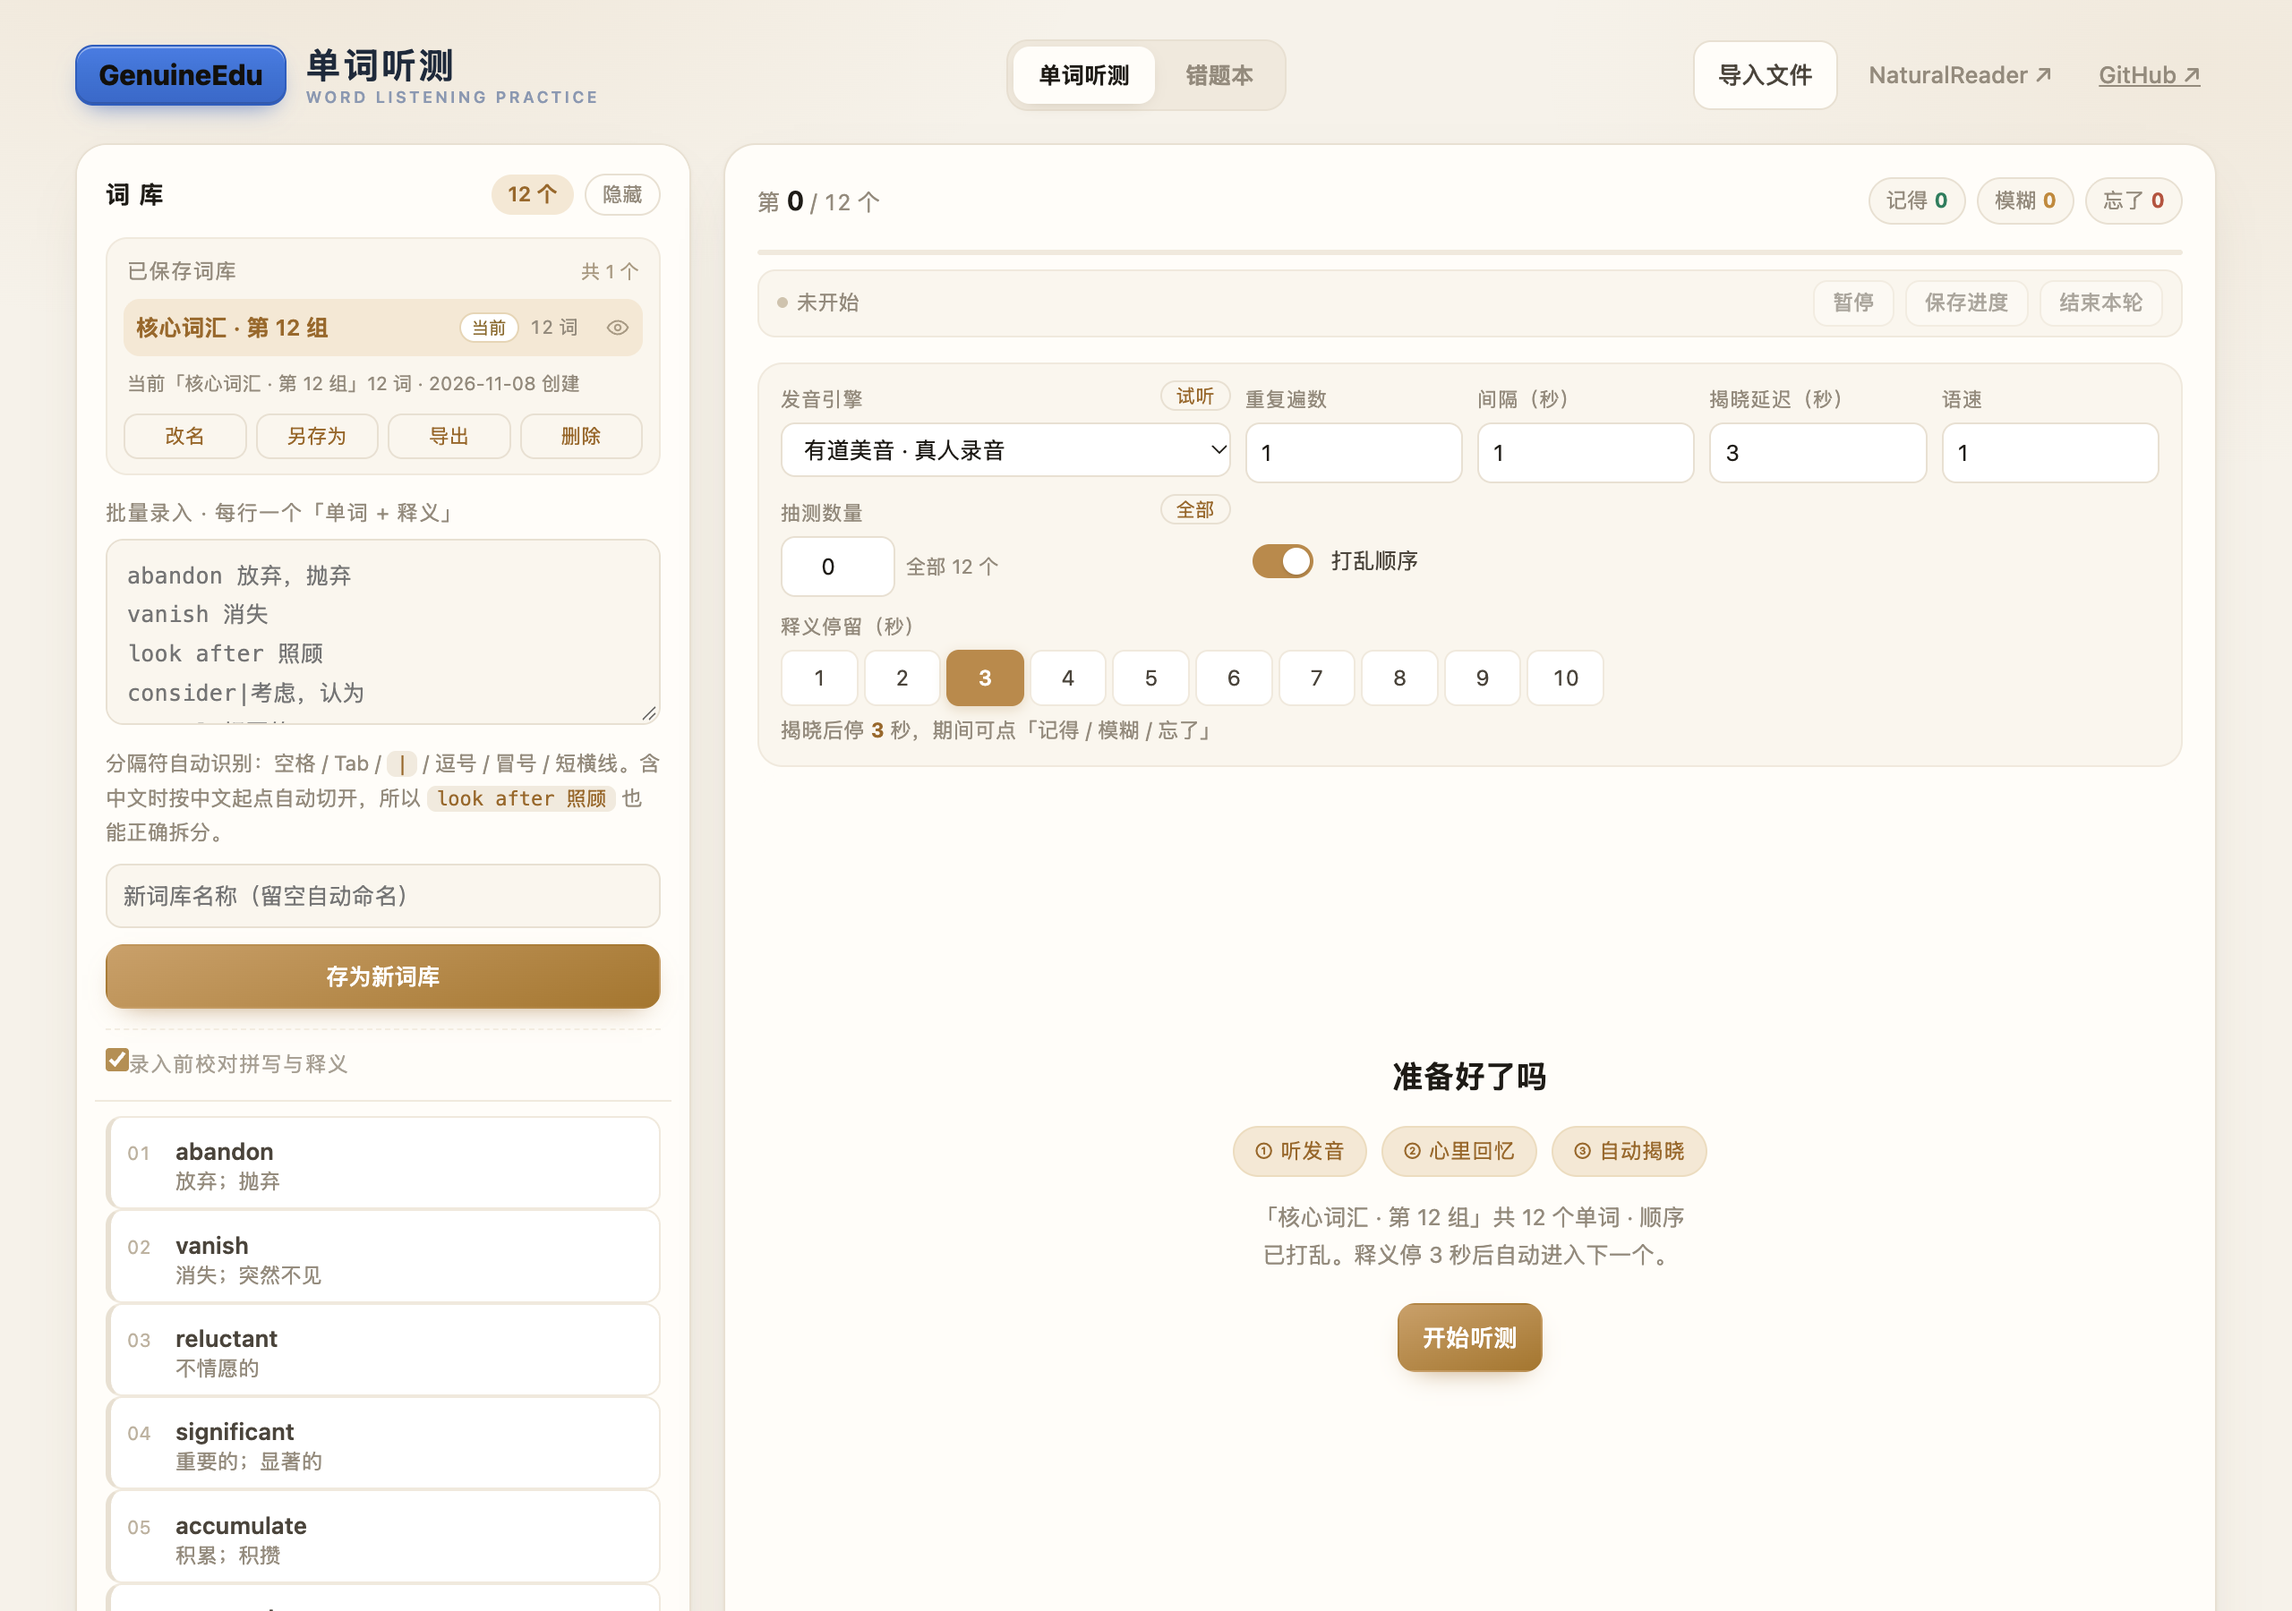
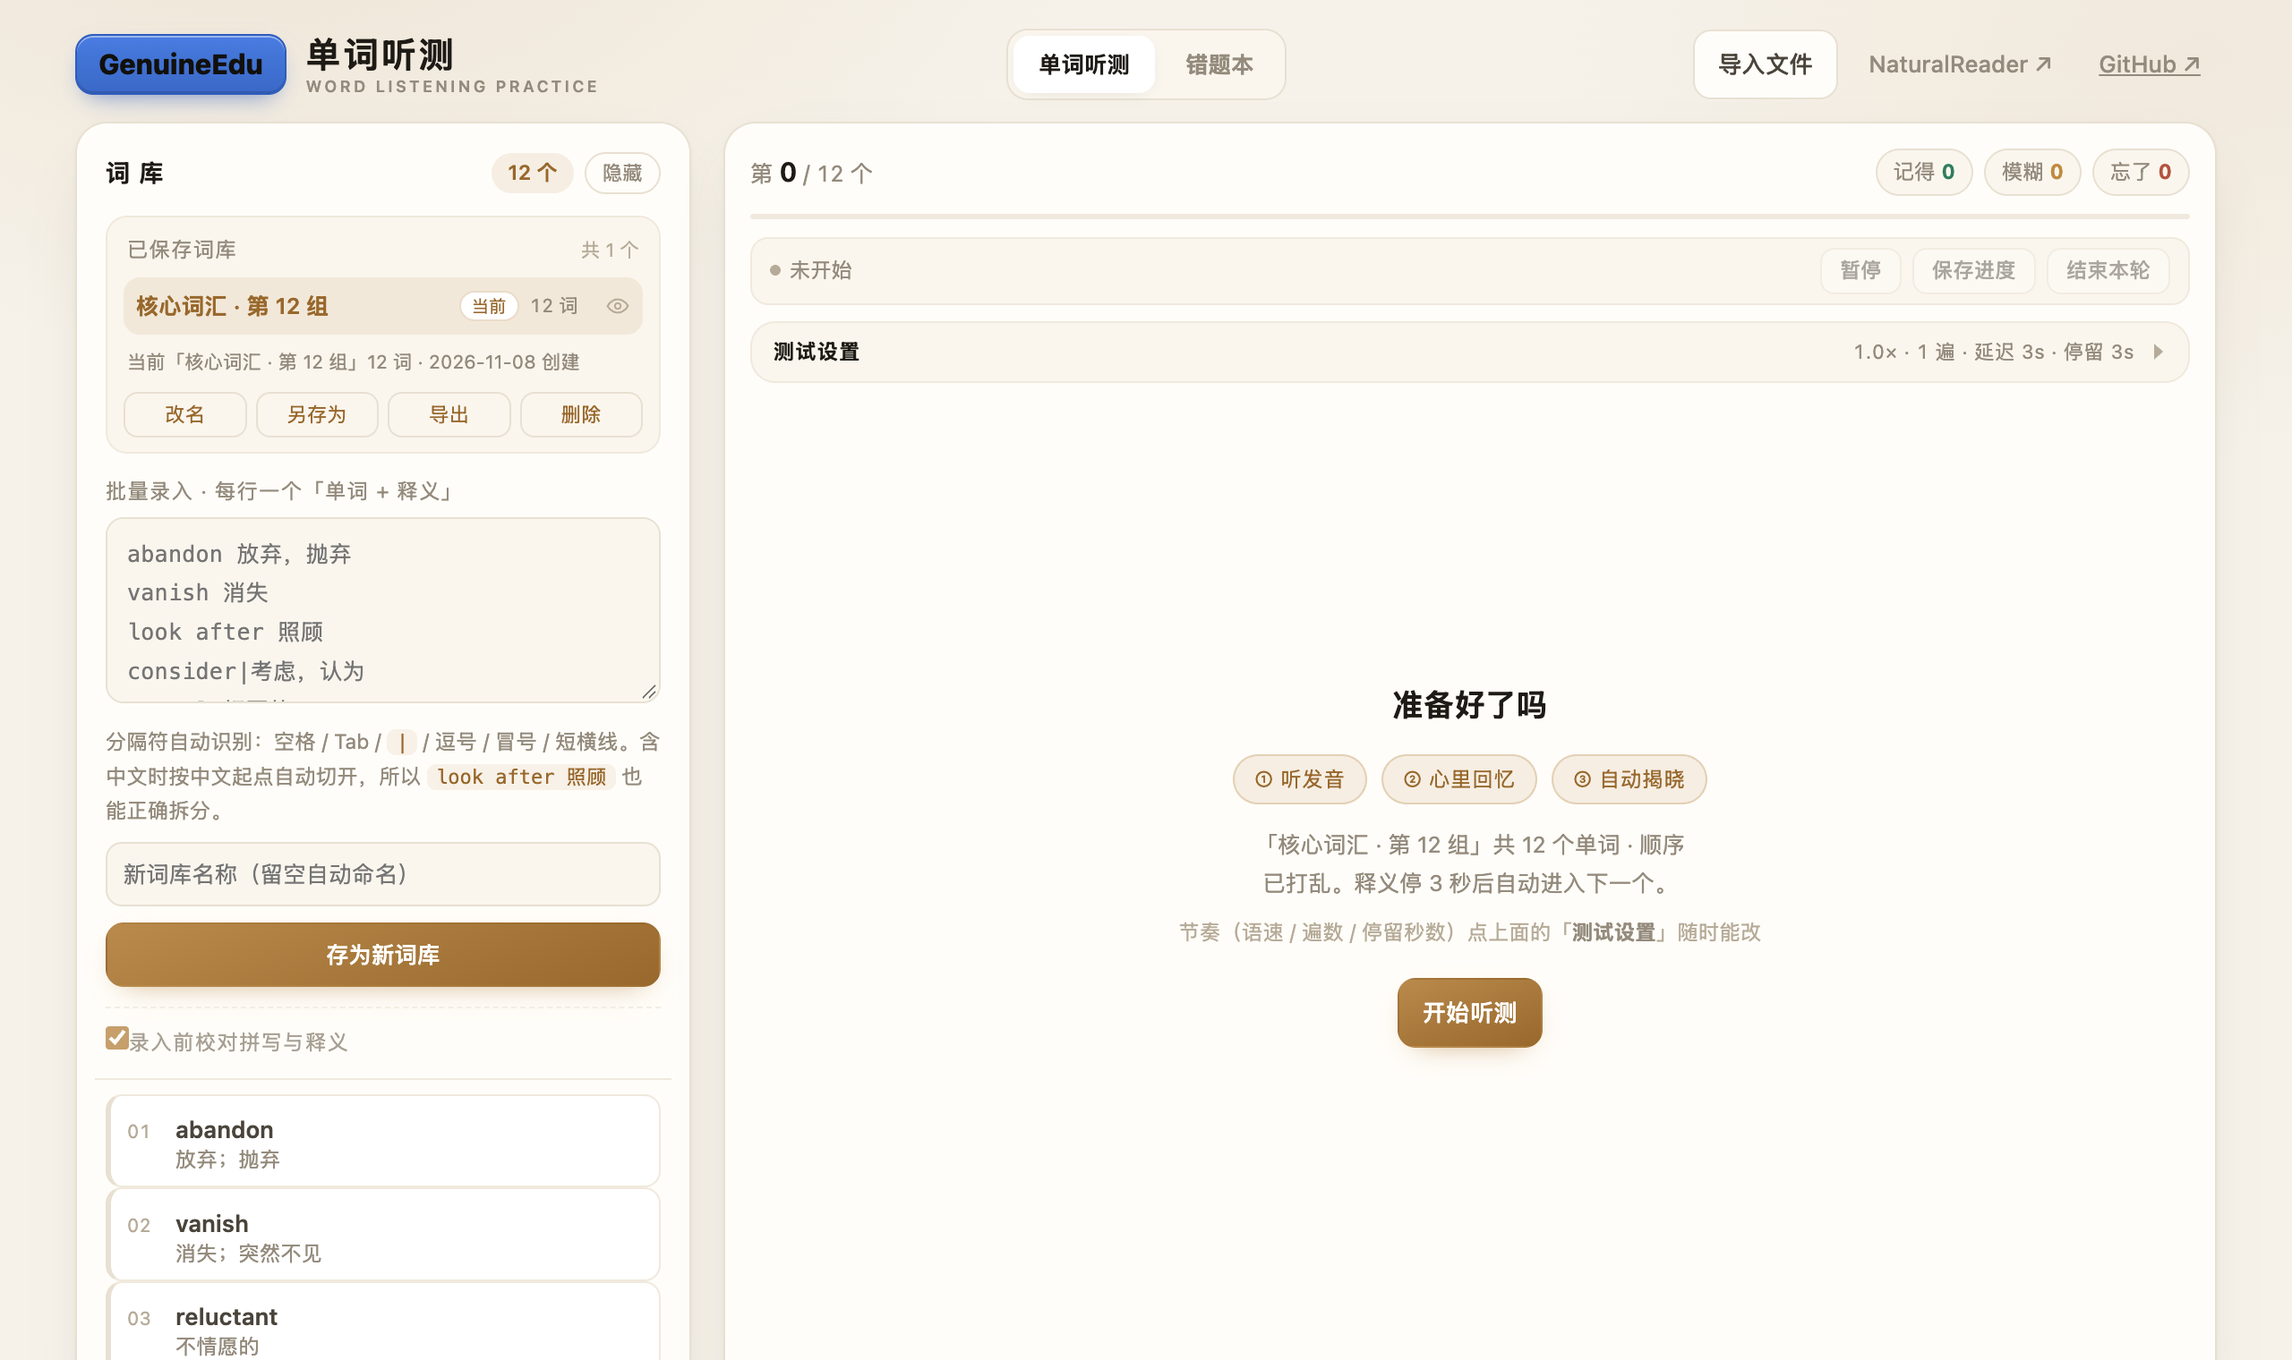
feat(layout): 测试页一屏到底——设置区改为可折叠（开测自动收起、显示当前节奏摘要），播放区按屏高压缩、高屏撑满并垂直居中；长释义改 grid 同格叠放不再压住自评按钮

diff --git a/index.html b/index.html
@@ -463,11 +463,30 @@ textarea:focus,input:focus,select:focus{border-color:var(--gold);background:var(
   color:var(--gold-d);font-weight:650}
 .btn.sv.end:not(:disabled):hover{border-color:var(--bad-bd);background:var(--bad-bg);color:var(--bad)}
 
-/* 设置条 */
+/* 设置条：外层一张可折叠的卡。开始听测后自动收起，只留一行摘要，一个测试页才装得进一屏 */
+.setwrap{margin:12px 0 4px;background:var(--panel-2);border:1px solid var(--line-2);border-radius:14px;overflow:hidden}
+.set-hd{
+  display:flex;align-items:center;gap:9px;width:100%;padding:7px 12px;
+  text-align:left;transition:background .15s;
+}
+.set-hd:hover{background:rgba(var(--acc-rgb),.05)}
+.set-hd:focus-visible{outline:2px solid var(--ring);outline-offset:-2px}
+.set-ttl{flex:none;font-size:11.5px;font-weight:650;letter-spacing:.04em;color:var(--ink)}
+.set-sum{
+  flex:1 1 auto;min-width:0;font-size:11px;color:var(--muted);letter-spacing:.02em;
+  font-variant-numeric:tabular-nums;white-space:nowrap;overflow:hidden;text-overflow:ellipsis;text-align:right;
+}
+/* 折叠箭头：纯 CSS 三角（字符 ▾ 在 10px 下糊成一团），收起时转 90° */
+.set-hd .car{
+  flex:none;width:0;height:0;border-left:4.5px solid transparent;border-right:4.5px solid transparent;
+  border-top:5px solid var(--faint);transition:transform .18s;
+}
+.setwrap.folded .set-hd .car{transform:rotate(-90deg)}
 .settings{
   display:grid;grid-template-columns:repeat(6,minmax(0,1fr));gap:8px;
-  margin:14px 0 4px;padding:11px 12px;background:var(--panel-2);border:1px solid var(--line-2);border-radius:14px;
+  padding:2px 12px 11px;
 }
+.setwrap.folded .settings{display:none}
 .set{min-width:0}
 .set label{display:block;font-size:11px;color:var(--muted);letter-spacing:.03em;margin-bottom:4px;white-space:nowrap}
 .set select,.set input{padding:6px 8px;font-size:12.5px;border-radius:8px;background:var(--panel-3)}
@@ -556,8 +575,9 @@ textarea:focus,input:focus,select:focus{border-color:var(--gold);background:var(
 .dots i.done{background:rgba(var(--acc-rgb),.42)}
 
 /* 释义区 */
-.reveal{position:relative;min-height:118px;width:100%;max-width:560px;margin-top:10px}
-.veil,.answer{position:absolute;inset:0;display:flex;flex-direction:column;align-items:center;justify-content:center;text-align:center;transition:opacity .4s ease,transform .4s cubic-bezier(.2,.75,.3,1)}
+/* 释义区：两态叠在同一格里（grid 同格叠放），长释义可以把这块撑高，不会压到下面的自评按钮 */
+.reveal{position:relative;display:grid;align-items:center;min-height:118px;width:100%;max-width:560px;margin-top:10px}
+.veil,.answer{grid-area:1 / 1;display:flex;flex-direction:column;align-items:center;justify-content:center;text-align:center;transition:opacity .4s ease,transform .4s cubic-bezier(.2,.75,.3,1)}
 .veil{gap:8px;color:var(--muted)}
 .veil .eye{font-size:20px;opacity:.5}
 .veil p{margin:0;font-size:12.5px;letter-spacing:.04em}
@@ -612,6 +632,8 @@ textarea:focus,input:focus,select:focus{border-color:var(--gold);background:var(
 .gate h3{margin:0;font-size:17px;font-weight:650}
 .gate p{margin:0;font-size:12.5px;color:var(--muted);max-width:380px;line-height:1.7;text-wrap:balance}
 .gate .btn{margin-top:6px}
+.gate .gate-pace{margin-top:-2px;font-size:11.5px;color:var(--faint);line-height:1.6}
+.gate .gate-pace b{color:var(--muted);font-weight:600}
 .steps{display:flex;gap:8px;margin:4px 0 2px;flex-wrap:wrap;justify-content:center}
 .steps span{
   font-size:11.5px;color:var(--gold-d);background:var(--gold-l);border:1px solid rgba(var(--acc-rgb),.3);
@@ -817,6 +839,90 @@ body.adj-open #toast{bottom:250px}
   .sp-side{position:static;order:2}
   .sp-main{order:1}
 }
+
+/* ============ 矮屏：垂直方向收紧 ============
+   目标：不滚动就能同时看到「进度条」和下面的「记得 / 模糊 / 忘了」。
+   只压缩留白和播放钮，字号基本不动，避免把测试页做小。 */
+@media (max-height:900px){
+  .app{padding-top:16px;padding-bottom:26px}
+  .topbar{margin-bottom:12px}
+  .playarea{padding-top:18px;padding-bottom:14px}
+}
+/* 宽屏让测试台撑满一屏：内容少了也不会把面板缩成一小块，播放区反而能垂直居中。
+   用 flex 把「整页高度」交给布局，比写死 calc(100vh - Npx) 稳，换屏不会多出几像素滚动条 */
+@media (min-width:901px){
+  .app{display:flex;flex-direction:column;min-height:100vh;min-height:100dvh}
+  #viewListen{display:flex;flex-direction:column;flex:1 1 auto;min-height:0}
+  #viewListen .layout{flex:1 1 auto;align-items:stretch}
+  #stage{display:flex;flex-direction:column;min-height:0}
+  .playarea{flex:1 1 auto}
+}
+@media (min-width:901px) and (max-height:820px){
+  .stage{padding:14px}
+  .stage-top{margin-bottom:10px}
+  .setwrap{margin:9px 0 2px}
+  .playarea{padding:14px 16px 10px}
+  .dial{width:92px;height:92px;margin-bottom:10px}
+  .playbtn{width:80px;height:80px}
+  .playbtn svg{width:28px;height:28px}
+  .reveal{min-height:104px;margin-top:8px}
+  .answer .word{font-size:clamp(28px,3.5vw,40px)}
+  .mark{margin-top:9px}
+  .actions{margin-top:12px}
+  .keyhint{margin-top:10px}
+  .note{margin-top:9px}
+}
+@media (min-width:901px) and (max-height:720px){
+  .app{padding-top:11px;padding-bottom:14px}
+  .topbar{margin-bottom:9px}
+  .playarea{padding:9px 16px 7px}
+  .dial{width:74px;height:74px;margin-bottom:7px}
+  .playbtn{width:64px;height:64px}
+  .playbtn svg{width:23px;height:23px}
+  #dots{margin-top:7px}
+  .reveal{min-height:90px;margin-top:5px}
+  .answer .def{margin-top:6px;font-size:14.5px}
+  .mark{margin-top:7px}
+  .mark button{padding:6px 14px}
+  .actions{margin-top:9px}
+  .keyhint{display:none}       /* 矮屏先保证测试区完整，键位提示可以让位 */
+}
+/* 手机 / 平板：本来就纵向排列，再把播放区压一档 */
+@media (max-width:900px) and (max-height:840px){
+  .playarea{min-height:0;padding:14px 8px 10px}
+  .dial{width:92px;height:92px;margin-bottom:10px}
+  .playbtn{width:80px;height:80px}
+  .playbtn svg{width:28px;height:28px}
+  .reveal{min-height:104px;margin-top:8px}
+  .mark{margin-top:9px}
+  .actions{margin-top:11px}
+  .keyhint{margin-top:9px}
+}
+/* 手机上没有物理键盘，键位提示纯占地方 */
+@media (max-width:640px){
+  .keyhint{display:none}
+}
+/* 小屏手机（高度 ≤760，如 iPhone SE / 小尺寸安卓）：顶栏和播放区各再压一档，保证自评和翻页按钮还在一屏里 */
+@media (max-width:900px) and (max-height:760px){
+  .app{padding-top:10px;padding-bottom:14px}
+  .topbar{margin-bottom:10px;gap:10px}
+  .top-actions .btn{padding:6px 10px;font-size:12px}
+  .stage{padding:12px}
+  .stage-top{margin-bottom:8px}
+  .setwrap{margin:8px 0 2px}
+  .set-hd{padding:5px 10px}
+  .sessbar{padding:4px 8px}
+  .playarea{padding:8px 8px 4px}
+  .dial{width:74px;height:74px;margin-bottom:6px}
+  .playbtn{width:64px;height:64px}
+  .playbtn svg{width:23px;height:23px}
+  .reveal{min-height:88px;margin-top:5px}
+  .answer .word{font-size:30px}
+  .mark{margin-top:7px}
+  .mark button{padding:6px 13px}
+  .actions{margin-top:6px}
+  .actions .btn{padding:7px 12px}
+}
 </style>
 </head>
 <body>
@@ -939,8 +1045,15 @@ mutual,相互的"></textarea>
         </div>
       </div>
 
-      <!-- 设置 -->
-      <div class="settings">
+      <!-- 设置：可折叠。开始听测后自动收起，只留一行摘要，整块测试页才装得进一屏 -->
+      <div class="setwrap" id="setWrap">
+        <button class="set-hd" id="setToggle" type="button" aria-expanded="true" aria-controls="setBody"
+                title="展开 / 收起测试设置">
+          <span class="set-ttl">测试设置</span>
+          <span class="set-sum" id="setSum"></span>
+          <span class="car" aria-hidden="true"></span>
+        </button>
+        <div class="settings" id="setBody">
         <div class="set wide">
           <label>发音引擎<button class="mini" id="btnTestSound" type="button" title="用当前引擎读一个 hello">试听</button></label>
           <select id="selEngine">
@@ -1016,6 +1129,7 @@ mutual,相互的"></textarea>
             <span>切换深色</span>
           </button>
         </div>
+        </div>
       </div>
 
       <!-- 播放区 -->
@@ -1063,6 +1177,7 @@ mutual,相互的"></textarea>
           <h3>准备好了吗</h3>
           <div class="steps"><span>① 听发音</span><span>② 心里回忆</span><span>③ 自动揭晓</span></div>
           <p id="gateDesc">词库还是空的：把单词粘到左边存好，或点右上「导入文件」。</p>
+          <p class="gate-pace">节奏（语速 / 遍数 / 停留秒数）点上面的「<b>测试设置</b>」随时能改</p>
           <button class="btn gold" id="btnStart">开始听测</button>
         </div>
 
@@ -2976,6 +3091,7 @@ function startSession(onlyWrong) {
   savedAt = 0; savedSig = "";      // 新一轮，从「未保存」开始
   resetRemoteStreak();
   setLibMasked(true);            // 开测即收词库，防止看答案
+  setFold(true);                 // 开测即收设置：一屏要同时装下进度条和「记得 / 模糊 / 忘了」
   $("#gateStart").classList.add("hide");
   $("#gateEnd").classList.add("hide");
   // 预取前 3 个词的音频，避免第一题等待
@@ -3382,6 +3498,32 @@ function paintStats() {
 }
 
 /* ---------------- 设置同步 ---------------- */
+/* 设置区折叠：开始听测后自动收起，只留「1.0× · 1 遍 · 延迟 3s · 停留 3s」一行摘要。
+   原因：设置整块约 280px 高，夹在进度条和播放区之间，1366×768 这类笔记本上一屏
+   根本装不下「进度条 + 记得/模糊/忘了」，学生得来回滚。 */
+function setFold(fold) {
+  const w = $("#setWrap");
+  if (!w) return;
+  w.classList.toggle("folded", !!fold);
+  const btn = $("#setToggle");
+  if (btn) btn.setAttribute("aria-expanded", fold ? "false" : "true");
+}
+function toggleFold() {
+  const w = $("#setWrap");
+  if (w) setFold(!w.classList.contains("folded"));
+}
+/** 收起状态也要看得出当前节奏，省得每次点开确认 */
+function paintSetSum() {
+  const el = $("#setSum");
+  if (!el) return;
+  // 语速保留一位小数（1.0×），延迟去掉多余的 .0（3s），读起来更像人话
+  const r = Number(cfg.rate) || 1;
+  const rate = r === Math.round(r) ? r.toFixed(1) : String(Math.round(r * 100) / 100);
+  const d = Number(cfg.delay);
+  const delay = isFinite(d) ? (d === Math.round(d) ? String(d) : String(Math.round(d * 10) / 10)) : "–";
+  el.textContent = rate + "× · " + (parseInt(cfg.repeat, 10) || 1) + " 遍 · 延迟 " + delay + "s · 停留 " + staySec() + "s";
+}
+
 function syncSettingsUI() {
   $("#selEngine").value = cfg.engine;
   $("#inpRepeat").value = cfg.repeat;
@@ -3404,6 +3546,7 @@ function syncSettingsUI() {
     b.setAttribute("aria-pressed", on ? "true" : "false");
   });
   paintCountTip();
+  paintSetSum();
 }
 /** 抽测数量提示：库里有几个、这轮会抽几个 */
 function paintCountTip() {
@@ -4540,6 +4683,7 @@ function bind() {
     started = true;
     revealed = false;
     setLibMasked(true);          // 进入测试态，词库一并收起
+    setFold(true);               // 从词表直接跳题也算开测，设置一起收起
     $("#gateStart").classList.add("hide");
     $("#gateEnd").classList.add("hide");
     enterItem();
@@ -4554,6 +4698,7 @@ function bind() {
     toast("发音引擎：" + e.target.selectedOptions[0].textContent);
   };
   $("#selVoice").onchange = e => { cfg.voice = e.target.value; saveCfg(); };
+  $("#setToggle").onclick = toggleFold;
   $("#inpRepeat").onchange = e => {
     cfg.repeat = clamp(e.target.value, 1, 9, 1); saveCfg(); syncSettingsUI(); paintStage();
   };
@@ -6134,6 +6279,8 @@ function init() {
   window.addEventListener("dragover", e => e.preventDefault());
   window.addEventListener("drop", e => { if (!e.defaultPrevented) e.preventDefault(); });
   syncSettingsUI();
+  // 设置区默认收起：一屏要装下进度条 + 播放区 + 自评按钮；想改节奏点一下「测试设置」就展开
+  setFold(true);
   renderLibs();
   paintList();
   resetCounter();
